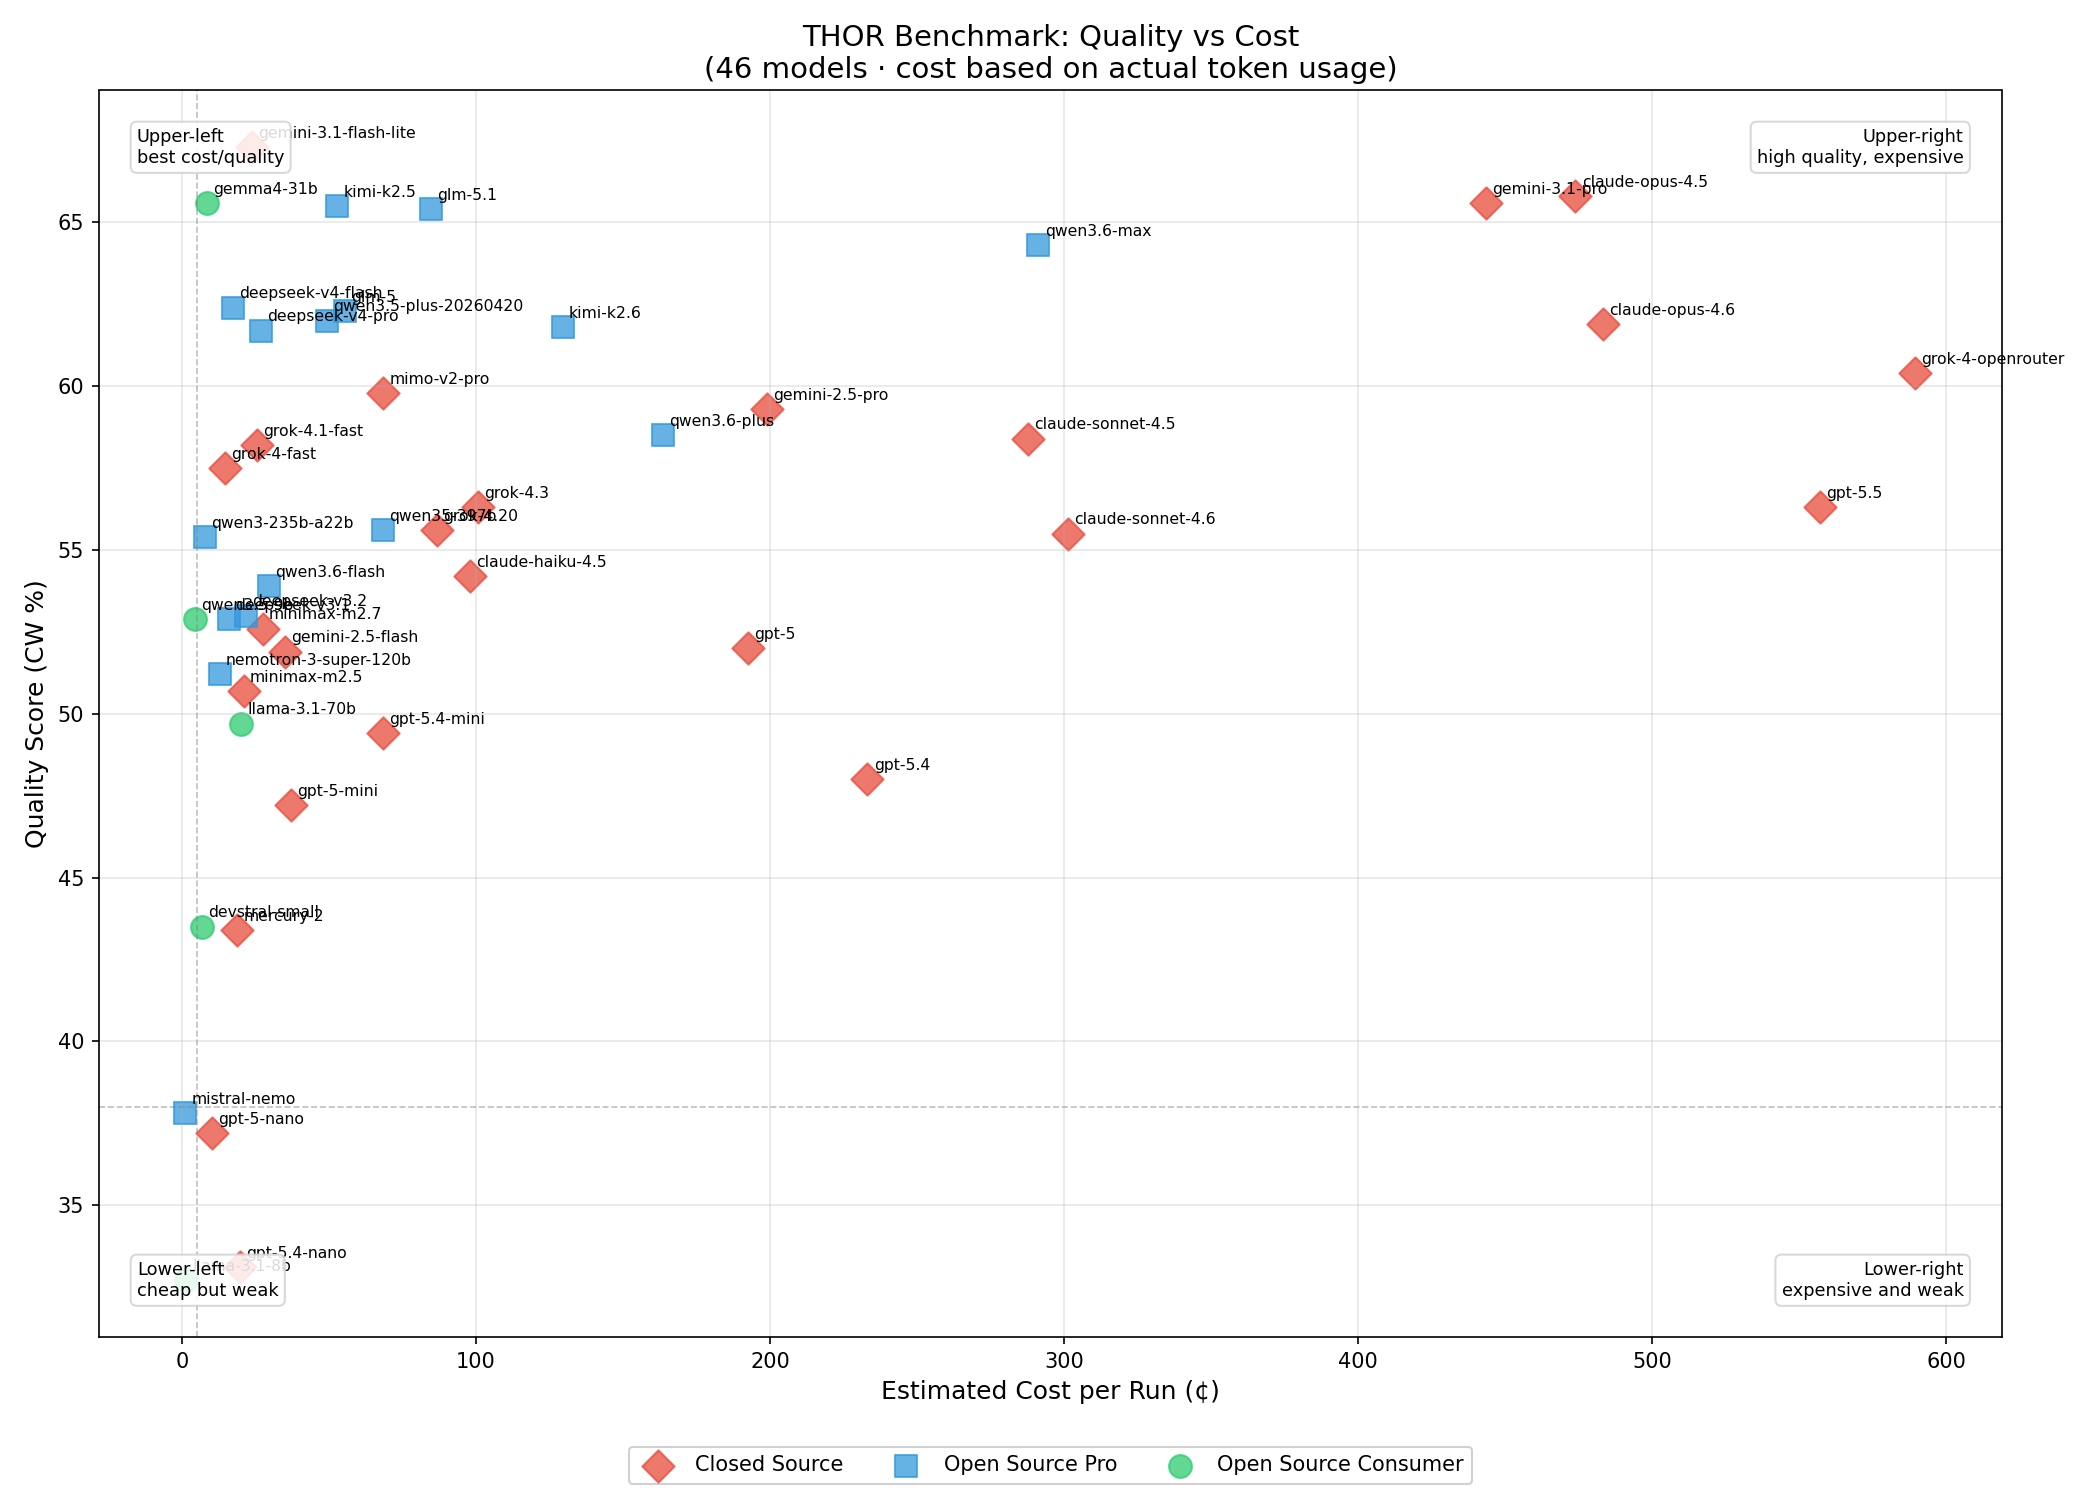
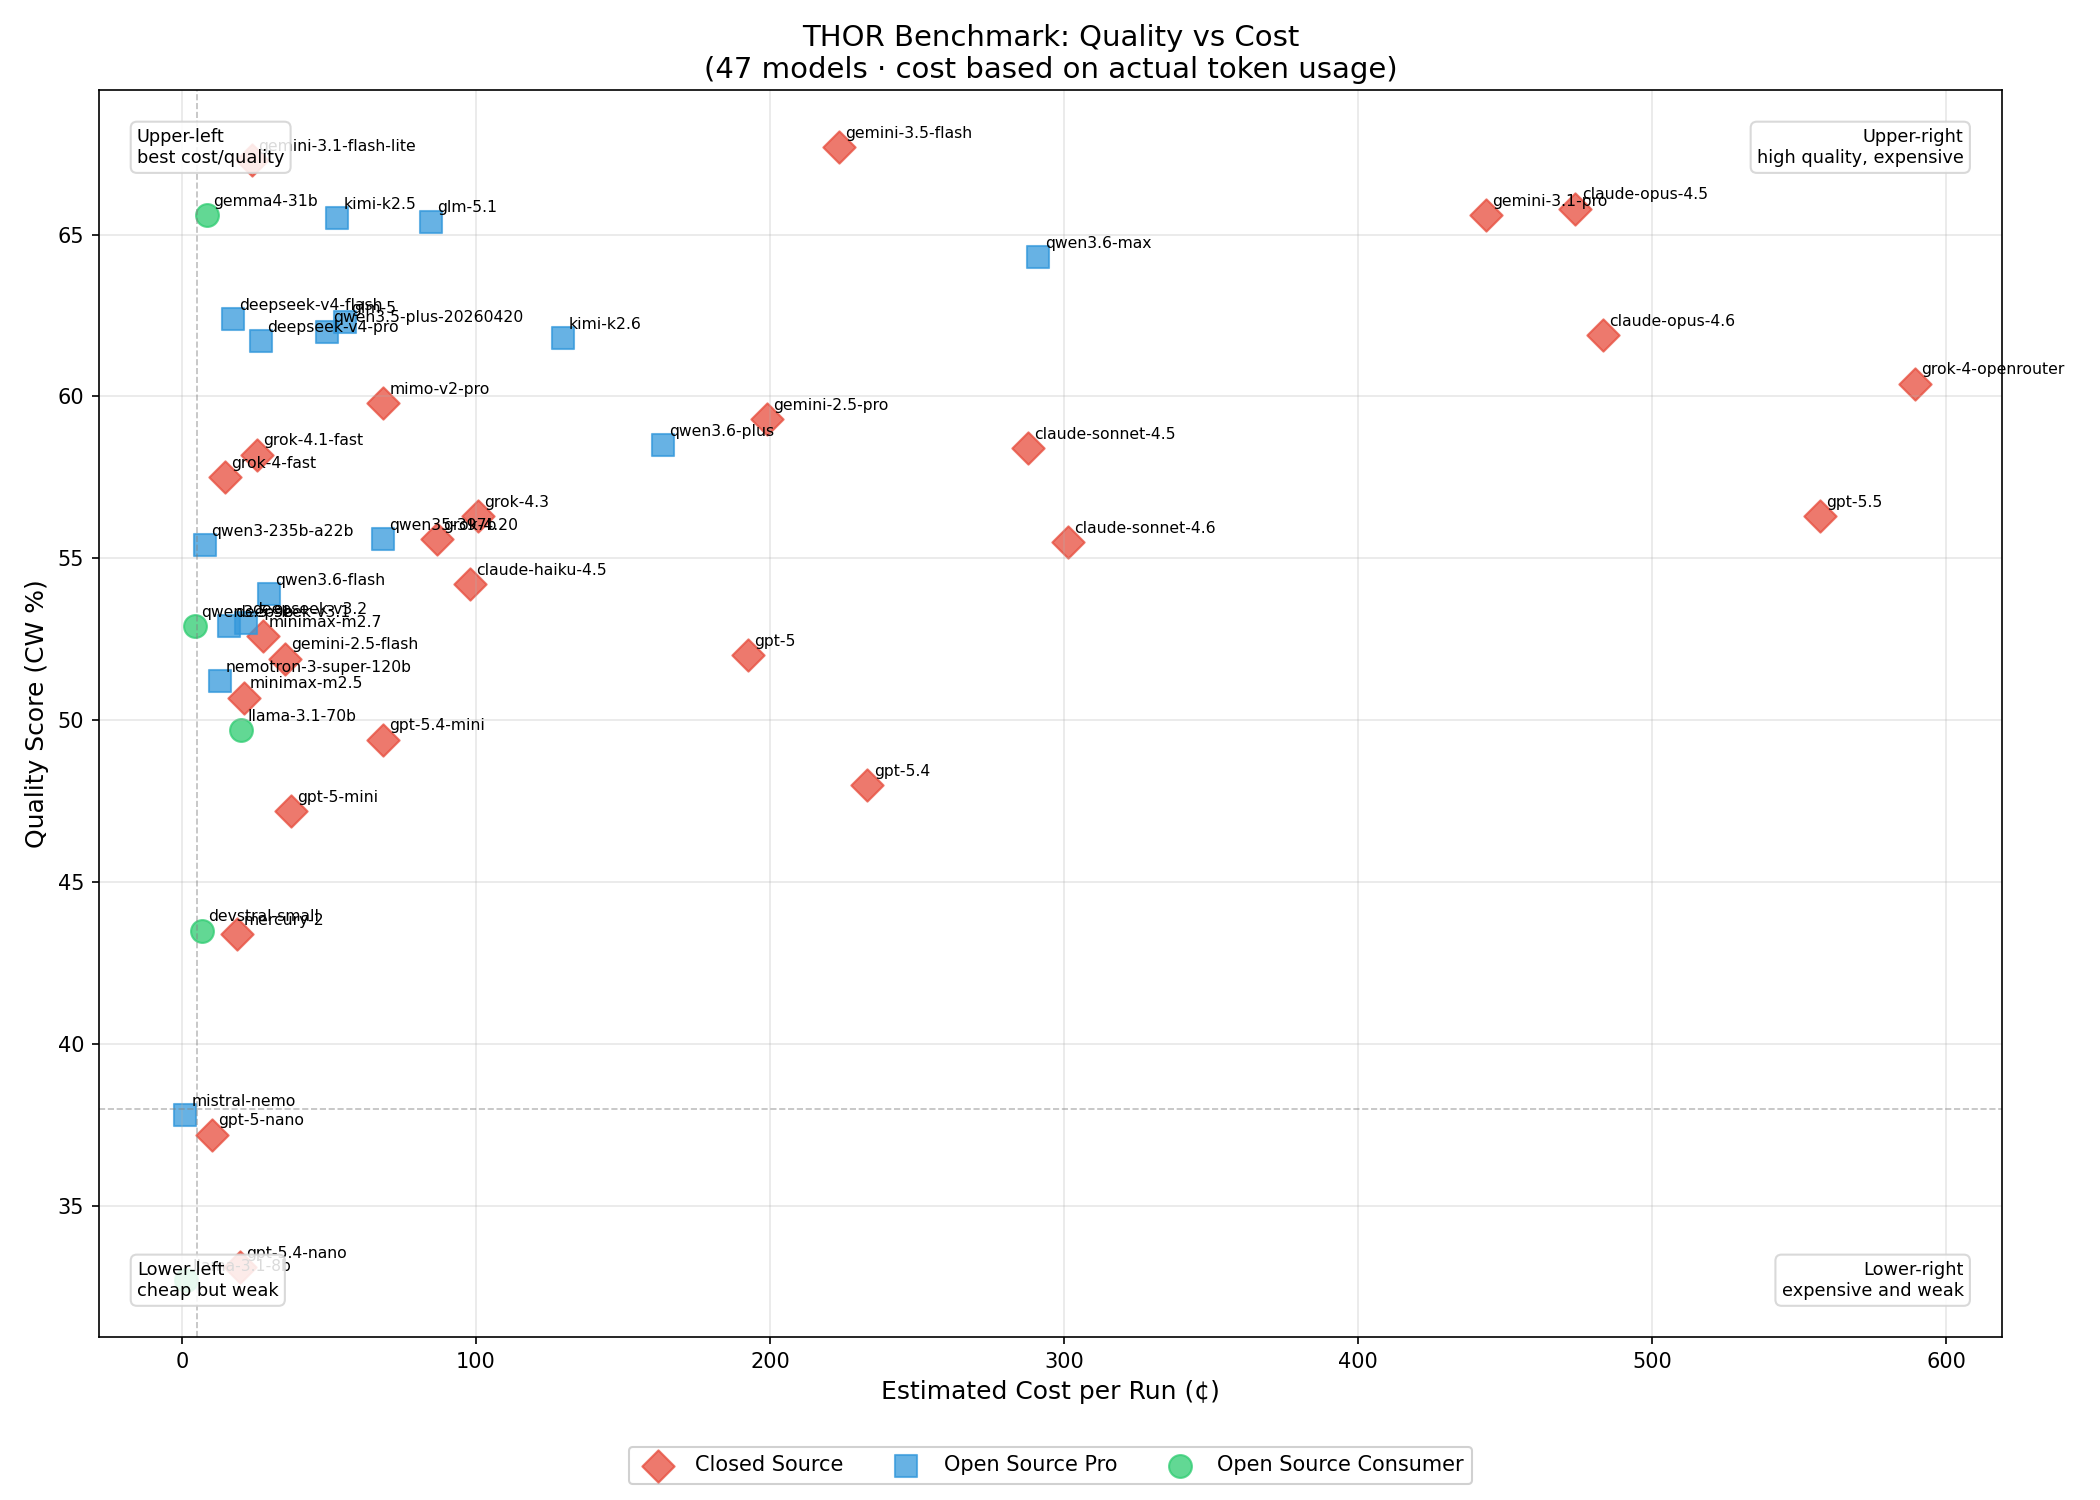
Add gemini-3.5-flash to charts + new model onboarding script
- Add gemini-3.5-flash to BENCH_TO_OPENROUTER mapping
- Add gemini-3.5-flash pricing (/bin/bash.0015/1K input, /bin/bash.009/1K output)
- Add gemini-3.5-flash to closed_source tier
- Create onboard-new-models.py to auto-detect and fix missing models
- Regenerate quality-vs-cost chart (now 47 models)

diff --git a/scripts/onboard-new-models.py b/scripts/onboard-new-models.py
@@ -1,0 +1,321 @@
+#!/usr/bin/env python3
+"""Onboard new benchmark models: detect missing pricing/tier mappings and update them."""
+
+import json
+import subprocess
+import sys
+from pathlib import Path
+
+REPO_ROOT = Path(__file__).resolve().parent.parent
+RESULTS_DIR = REPO_ROOT / "results"
+COMBINED_DIR = REPO_ROOT / "combined"
+SCRIPTS_DIR = REPO_ROOT / "scripts"
+
+TIERS_PATH = SCRIPTS_DIR / "model_tiers.json"
+COSTS_PATH = SCRIPTS_DIR / "openrouter_costs.py"
+PRICING_PATH = SCRIPTS_DIR / "openrouter_pricing_snapshot.json"
+
+
+def load_json(path):
+    return json.loads(path.read_text())
+
+
+def save_json(path, data):
+    path.write_text(json.dumps(data, indent=2) + "\n")
+
+
+def load_tiers():
+    data = load_json(TIERS_PATH)
+    all_models = set()
+    tier_lookup = {}
+    for tier_key, tier_data in data.get("tiers", {}).items():
+        for m in tier_data["models"]:
+            all_models.add(m)
+            tier_lookup[m] = tier_key
+    return all_models, tier_lookup, data.get("excluded", [])
+
+
+def load_bench_to_openrouter():
+    import importlib.util
+    spec = importlib.util.spec_from_file_location("openrouter_costs", COSTS_PATH)
+    module = importlib.util.module_from_spec(spec)
+    spec.loader.exec_module(module)
+    return module.BENCH_TO_OPENROUTER
+
+
+def load_pricing():
+    return load_json(PRICING_PATH).get("models", {})
+
+
+def load_leaderboard_models():
+    """Get models currently in combined leaderboard."""
+    lb_path = COMBINED_DIR / "leaderboard.json"
+    if not lb_path.exists():
+        return set()
+    lb = load_json(lb_path)
+    return {m["model"] for m in lb if m.get("tier") != "baseline"}
+
+
+def load_result_models():
+    """Scan all results directories for model names."""
+    models = set()
+    for report_dir in RESULTS_DIR.iterdir():
+        if not report_dir.is_dir():
+            continue
+        for result_file in report_dir.glob("*.json"):
+            model_name = result_file.stem
+            if model_name in ("combined", "leaderboard"):
+                continue
+            models.add(model_name)
+    return models
+
+
+def fetch_openrouter_pricing():
+    """Fetch current OpenRouter pricing."""
+    try:
+        result = subprocess.run(
+            ["curl", "-s", "https://openrouter.ai/api/v1/models"],
+            capture_output=True, text=True, timeout=30
+        )
+        data = json.loads(result.stdout)
+        pricing = {}
+        for m in data.get("data", []):
+            pricing[m["id"]] = {
+                "prompt": float(m["pricing"]["prompt"]),
+                "completion": float(m["pricing"]["completion"])
+            }
+        return pricing
+    except Exception as e:
+        print(f"Warning: Failed to fetch OpenRouter pricing: {e}")
+        return {}
+
+
+def infer_openrouter_id(bench_name):
+    """Infer OpenRouter model ID from benchmark model name."""
+    # Common patterns
+    name = bench_name
+
+    # Provider prefixes
+    if name.startswith("gemini-"):
+        return f"google/{name}"
+    if name.startswith("gpt-"):
+        return f"openai/{name}"
+    if name.startswith("claude-"):
+        return f"anthropic/{name}"
+    if name.startswith("grok-"):
+        # Handle special cases
+        if name == "grok-4-openrouter":
+            return "x-ai/grok-4"
+        return f"x-ai/{name}"
+    if name.startswith("deepseek-"):
+        # Map version variants
+        if name == "deepseek-v3.1":
+            return "deepseek/deepseek-chat-v3.1"
+        if name == "deepseek-v3.2":
+            return "deepseek/deepseek-chat-v3-0324"
+        if name == "deepseek-v4-flash":
+            return "deepseek/deepseek-chat-v3-0324"
+        if name == "deepseek-v4-pro":
+            return "deepseek/deepseek-chat"
+        return f"deepseek/{name}"
+    if name.startswith("qwen"):
+        if name == "qwen35-397b":
+            return "qwen/qwen3.5-397b-a17b"
+        if name == "qwen3-235b-a22b":
+            return "qwen/qwen3-235b-a22b-2507"
+        return f"qwen/{name}"
+    if name.startswith("glm-"):
+        return f"z-ai/{name}"
+    if name.startswith("kimi-"):
+        return f"moonshotai/{name}"
+    if name.startswith("gemma"):
+        # Handle gemma4 -> gemini-4 mapping
+        if name.startswith("gemma4"):
+            return f"google/{name.replace('gemma4', 'gemma-4')}-it"
+        return f"google/{name}"
+    if name.startswith("llama-"):
+        return f"meta-llama/{name}-instruct"
+    if name.startswith("mistral-"):
+        return f"mistralai/{name}"
+    if name.startswith("minimax-"):
+        return f"minimax/{name}"
+    if name.startswith("nemotron-"):
+        if name == "nemotron-3-super-120b":
+            return "nvidia/nemotron-3-super-120b-a12b"
+        if name == "nemotron-3-nano-omni":
+            return "nvidia/nemotron-3-nano-omni-30b-a3b-reasoning:free"
+        return f"nvidia/{name}"
+    if name.startswith("mercury-"):
+        return f"inception/{name}"
+    if name.startswith("mimo-"):
+        return f"xiaomi/{name}"
+    if name.startswith("devstral-"):
+        return f"mistralai/{name}"
+
+    return None
+
+
+def infer_tier(bench_name, or_id=None):
+    """Infer tier from model name or OpenRouter ID."""
+    name = bench_name.lower()
+
+    # Open source consumer (can run on consumer hardware)
+    consumer_models = {
+        "gemma4-31b", "qwen3.6-35b", "qwen3.5-9b", "devstral-small",
+        "llama-3.1-8b", "llama-3.1-70b"
+    }
+    if name in consumer_models:
+        return "open_source_consumer"
+
+    # Check for indicators
+    if any(x in name for x in ["70b", "120b", "235b", "397b", "pro-", "max-"]):
+        return "open_source_pro"
+
+    # Free models on OpenRouter are typically open source
+    if or_id and ":free" in or_id:
+        return "open_source_consumer"
+
+    # Default closed source for vendor APIs
+    if any(name.startswith(p) for p in ["gpt-", "claude-", "gemini-", "grok-", "o1-", "o3-"]):
+        return "closed_source"
+
+    # Default based on size/heuristics
+    return "open_source_pro"
+
+
+def main():
+    print("=== Model Onboarding Check ===\n")
+
+    # Load current state
+    tiered_models, tier_lookup, excluded = load_tiers()
+    b2o = load_bench_to_openrouter()
+    pricing = load_pricing()
+    leaderboard_models = load_leaderboard_models()
+    result_models = load_result_models()
+
+    # Find new models
+    all_known = tiered_models | set(b2o.keys())
+    new_models = result_models - all_known - set(excluded)
+
+    if new_models:
+        print(f"🆕 NEW MODELS detected in results: {sorted(new_models)}\n")
+
+    # Fetch fresh pricing
+    print("Fetching current OpenRouter pricing...")
+    fresh_pricing = fetch_openrouter_pricing()
+
+    # Check each model in results
+    missing_mapping = []
+    missing_pricing = []
+    missing_tier = []
+
+    for model in sorted(result_models):
+        if model in excluded:
+            continue
+
+        if model not in b2o:
+            missing_mapping.append(model)
+
+        or_id = b2o.get(model) or infer_openrouter_id(model)
+        if or_id and or_id not in pricing:
+            missing_pricing.append((model, or_id))
+
+        if model not in tiered_models and model not in excluded:
+            missing_tier.append(model)
+
+    # Report findings
+    if not (missing_mapping or missing_pricing or missing_tier):
+        print("✓ All models have complete mapping, pricing, and tier assignments.")
+        print(f"  Total: {len(tiered_models)} tiered, {len(b2o)} mapped, {len(pricing)} priced")
+        return
+
+    print("\n=== MISSING ===\n")
+
+    if missing_mapping:
+        print("BENCH_TO_OPENROUTER mapping needed:")
+        for m in missing_mapping:
+            inferred = infer_openrouter_id(m)
+            print(f"  \"{m}\": \"{inferred or '???'}\",")
+        print()
+
+    if missing_pricing:
+        print("OpenRouter pricing needed:")
+        for model, or_id in missing_pricing:
+            fresh = fresh_pricing.get(or_id, {})
+            if fresh:
+                p = fresh.get("prompt", "?")
+                c = fresh.get("completion", "?")
+                print(f'    "{or_id}": {{')
+                print(f'      "prompt": {p},')
+                print(f'      "completion": {c}')
+                print(f'    }},  # <- {model}')
+            else:
+                print(f"  {model}: {or_id} (not found on OpenRouter)")
+        print()
+
+    if missing_tier:
+        print("Tier assignment needed:")
+        for m in missing_tier:
+            inferred_tier = infer_tier(m, b2o.get(m))
+            print(f"  {m} -> {inferred_tier}")
+        print()
+
+    # Offer to auto-fix
+    if "--auto" in sys.argv:
+        print("=== AUTO-FIXING ===\n")
+
+        # Update BENCH_TO_OPENROUTER
+        if missing_mapping:
+            print(f"Adding {len(missing_mapping)} mappings to openrouter_costs.py...")
+            # Read current file
+            content = COSTS_PATH.read_text()
+            # Find the last entry before closing brace
+            lines = content.split('\n')
+            insert_idx = None
+            for i, line in enumerate(lines):
+                if line.strip().startswith('}'):
+                    insert_idx = i
+                    break
+
+            new_mappings = []
+            for m in sorted(missing_mapping):
+                or_id = infer_openrouter_id(m)
+                if or_id:
+                    new_mappings.append(f'    "{m}": "{or_id}",')
+
+            if new_mappings:
+                lines[insert_idx:insert_idx] = new_mappings
+                COSTS_PATH.write_text('\n'.join(lines))
+                print(f"  Added: {', '.join(missing_mapping)}")
+
+        # Update pricing
+        if missing_pricing and fresh_pricing:
+            print(f"Adding pricing for {len(missing_pricing)} models...")
+            current = load_json(PRICING_PATH)
+            for model, or_id in missing_pricing:
+                if or_id in fresh_pricing:
+                    current["models"][or_id] = fresh_pricing[or_id]
+                    print(f"  Added: {or_id}")
+            # Update timestamp
+            from datetime import datetime
+            current["fetched_at"] = datetime.utcnow().isoformat() + "+00:00"
+            save_json(PRICING_PATH, current)
+
+        # Update tiers
+        if missing_tier:
+            print(f"Adding tier assignments for {len(missing_tier)} models...")
+            current = load_json(TIERS_PATH)
+            for m in missing_tier:
+                tier = infer_tier(m, b2o.get(m))
+                if tier in current["tiers"]:
+                    current["tiers"][tier]["models"].append(m)
+                    print(f"  {m} -> {tier}")
+            save_json(TIERS_PATH, current)
+
+        print("\n✓ Auto-fix complete. Regenerate charts with:")
+        print("  python3 scripts/quality-vs-cost.py")
+        print("  python3 scripts/generate_charts.py")
+
+
+if __name__ == "__main__":
+    main()

diff --git a/scripts/openrouter_costs.py b/scripts/openrouter_costs.py
@@ -61,6 +61,7 @@ BENCH_TO_OPENROUTER = {
     "mercury-2": "inception/mercury-2",
     "claude-sonnet-4.5": "anthropic/claude-sonnet-4.5",
     "gemini-3.1-flash-lite": "google/gemini-3.1-flash-lite",
+    "gemini-3.5-flash": "google/gemini-3.5-flash",
     "grok-4.3": "x-ai/grok-4.3",
 }
 